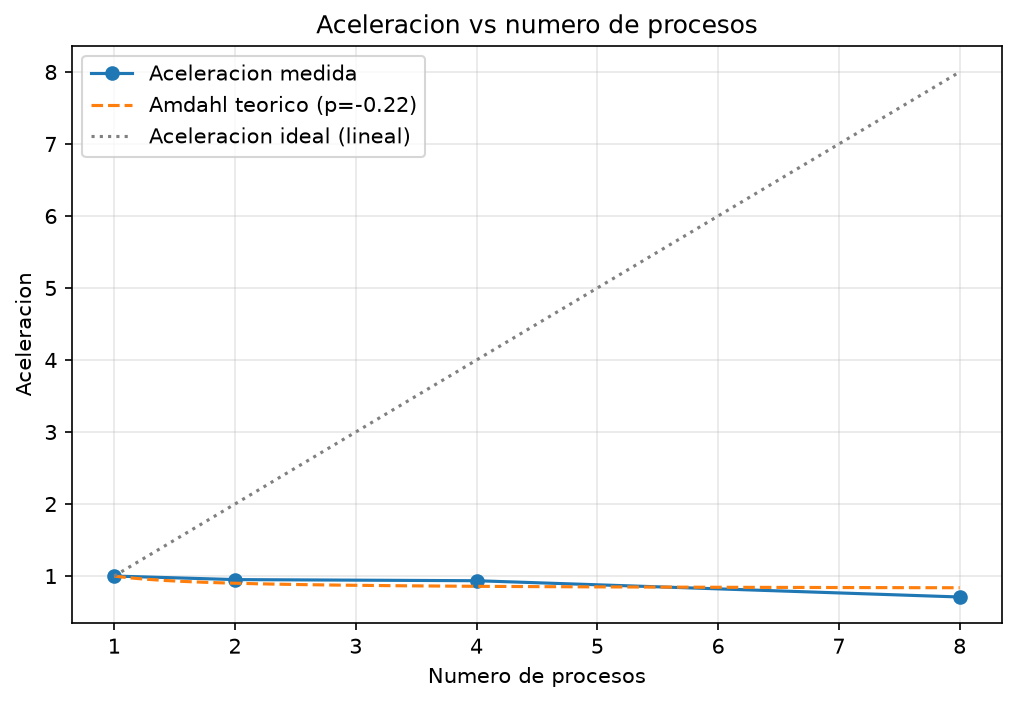
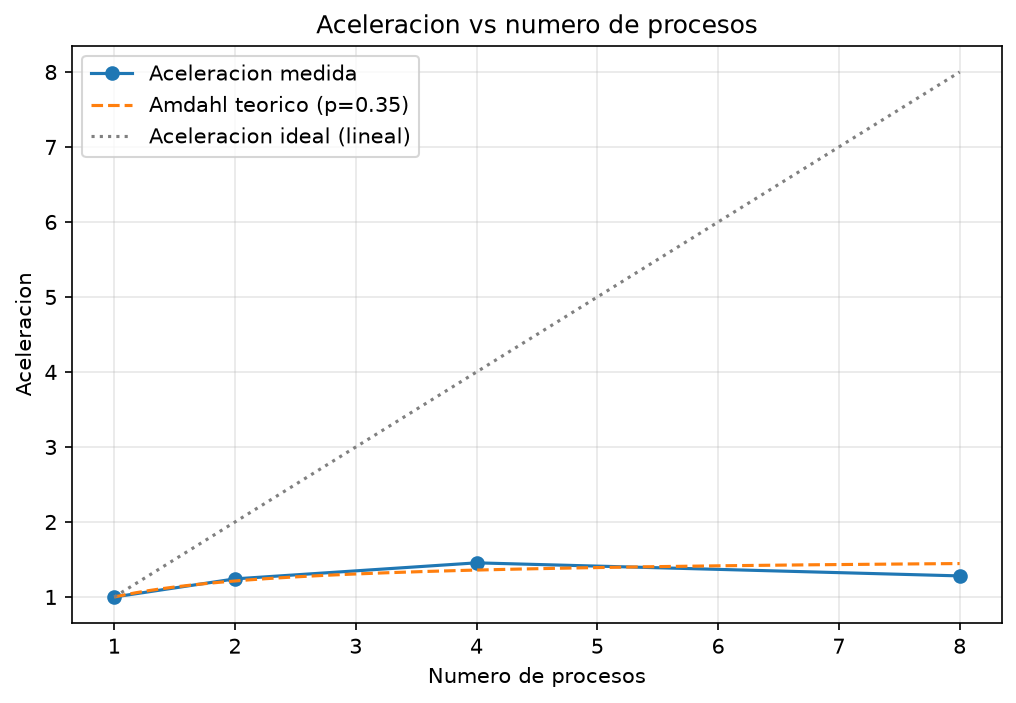
Métricas corregidas, ley de Amdahl aplicada y ajustes para el muestreo de data set (carpeta sample)

diff --git a/src/benchmark.py b/src/benchmark.py
@@ -1,41 +1,74 @@
+"""
+Automatiza las mediciones de rendimiento que pide el entregable:
+  - Corre la version secuencial y la paralela (con 1, 2, 4 y 8 procesos)
+  - Repite cada configuracion 3 veces (minimo pedido) para reducir el
+    efecto de variaciones aleatorias del sistema operativo
+  - Calcula aceleracion, eficiencia, y estima la fraccion secuencial
+    usando la Ley de Amdahl
+  - Genera las graficas de aceleracion y eficiencia en PNG
+"""
+
 from pathlib import Path
 import time
 import csv
 import numpy as np
+import pandas as pd
 import matplotlib.pyplot as plt
 
 from secuencial import procesar_secuencial
 from paralelo import procesar_paralelo
 
 BASE_DIR = Path(__file__).resolve().parent.parent
-RUTA_DATOS = BASE_DIR / "data" / "sample" / "muestra.csv"  # cambia a un archivo mas grande para la corrida final
+RUTA_DATOS = BASE_DIR / "data" / "sample" / "muestra_grande.csv"
 RUTA_TIEMPOS = BASE_DIR / "resultados" / "tiempos.csv"
 RUTA_GRAFICAS = BASE_DIR / "resultados" / "graficas"
+COLUMNAS_NECESARIAS = ["app_name", "review_score", "review_votes"]
 
+# Numeros de procesos a probar, y cuantas veces repetir cada uno
 NUM_PROCESOS = [1, 2, 4, 8]
 CORRIDAS = 3
 
 
 def medir_tiempo(funcion, *args):
+    """
+    Funcion auxiliar generica: ejecuta cualquier funcion pasandole los
+    argumentos dados, y regresa cuanto tiempo tardo (en segundos).
+    El *args permite reutilizar esta misma funcion tanto para
+    procesar_secuencial(df) como para procesar_paralelo(df, n).
+    """
     inicio = time.perf_counter()
     funcion(*args)
     return time.perf_counter() - inicio
 
 
 def correr_benchmark():
+    """
+    Ejecuta todas las mediciones (secuencial + cada nivel de paralelismo,
+    repetido CORRIDAS veces) y guarda cada tiempo individual en una lista
+    de diccionarios, que luego se exporta a CSV.
+    """
     RUTA_GRAFICAS.mkdir(parents=True, exist_ok=True)
     filas = []
 
+    # El CSV se carga UNA SOLA VEZ aqui, y se reutiliza el mismo
+    # DataFrame en todas las 15 mediciones (3 + 4x3). Si se leyera
+    # dentro de cada corrida, ese tiempo de I/O (identico sin importar
+    # el numero de procesos) inflaria artificialmente todas las
+    # mediciones por igual, ocultando el efecto real del paralelismo.
+    print("Cargando datos (una sola vez, fuera de las mediciones)...")
+    df = pd.read_csv(RUTA_DATOS, usecols=COLUMNAS_NECESARIAS)
+    print(f"Filas cargadas: {len(df)}")
+
     print("Corriendo version secuencial...")
     for corrida in range(1, CORRIDAS + 1):
-        t = medir_tiempo(procesar_secuencial, RUTA_DATOS)
+        t = medir_tiempo(procesar_secuencial, df)
         filas.append({"tipo": "secuencial", "n_procesos": 1, "corrida": corrida, "tiempo": t})
         print(f"  corrida {corrida}: {t:.4f}s")
 
     for n in NUM_PROCESOS:
         print(f"Corriendo version paralela con {n} proceso(s)...")
         for corrida in range(1, CORRIDAS + 1):
-            t = medir_tiempo(procesar_paralelo, RUTA_DATOS, n)
+            t = medir_tiempo(procesar_paralelo, df, n)
             filas.append({"tipo": "paralelo", "n_procesos": n, "corrida": corrida, "tiempo": t})
             print(f"  corrida {corrida}: {t:.4f}s")
 
@@ -44,6 +77,8 @@ def correr_benchmark():
 
 
 def guardar_csv(filas):
+    """Exporta todas las mediciones individuales (sin promediar) a CSV,
+    para que quede como evidencia cruda reproducible en el reporte."""
     with open(RUTA_TIEMPOS, "w", newline="", encoding="utf-8") as f:
         writer = csv.DictWriter(f, fieldnames=["tipo", "n_procesos", "corrida", "tiempo"])
         writer.writeheader()
@@ -52,6 +87,8 @@ def guardar_csv(filas):
 
 
 def promediar_por_n(filas, tipo="paralelo"):
+    """Calcula el tiempo promedio de las 3 corridas para cada numero
+    de procesos, filtrando solo las filas del 'tipo' indicado."""
     promedios = {}
     for n in NUM_PROCESOS:
         tiempos = [f["tiempo"] for f in filas if f["tipo"] == tipo and f["n_procesos"] == n]
@@ -60,10 +97,27 @@ def promediar_por_n(filas, tipo="paralelo"):
 
 
 def modelo_amdahl(n, p):
+    """
+    Formula de la Ley de Amdahl: dado un numero de procesos n y una
+    fraccion paralelizable p (entre 0 y 1), calcula la aceleracion
+    TEORICA maxima esperada.
+
+    (1 - p) es la fraccion secuencial: la parte del trabajo que NO
+    se beneficia de agregar mas procesos.
+    """
     return 1 / ((1 - p) + p / n)
 
 
 def estimar_fraccion_paralela(ns, aceleraciones):
+    """
+    Despeja algebraicamente el valor de p (fraccion paralelizable) de
+    la formula de Amdahl, usando cada punto medido (n, aceleracion)
+    donde n > 1 (con n=1 la formula no aporta informacion, ya que la
+    aceleracion siempre es 1.0 por definicion).
+
+    Se promedian las estimaciones de p obtenidas con cada n para dar
+    un resultado mas robusto que depender de un solo punto de datos.
+    """
     estimaciones = []
     for n, s in zip(ns, aceleraciones):
         if n == 1:
@@ -74,6 +128,14 @@ def estimar_fraccion_paralela(ns, aceleraciones):
 
 
 def analizar_resultados(filas):
+    """
+    A partir de las mediciones crudas, calcula:
+    - Aceleracion: T(1) / T(n), donde T(1) es el tiempo con 1 solo
+      proceso (nuestra linea base)
+    - Eficiencia: aceleracion / n (que tan bien se aprovecha cada
+      proceso agregado; 100% seria aprovechamiento perfecto)
+    - La fraccion secuencial estimada segun Amdahl
+    """
     promedios = promediar_por_n(filas, tipo="paralelo")
     t1 = promedios[1]
 
@@ -96,6 +158,12 @@ def analizar_resultados(filas):
 
 
 def graficar(ns, aceleraciones, eficiencias, p_estimado):
+    """Genera y guarda dos graficas PNG: aceleracion vs. numero de
+    procesos (comparando lo medido contra lo ideal y lo predicho por
+    Amdahl), y eficiencia vs. numero de procesos."""
+
+    # 200 puntos entre 1 y el maximo de procesos, para dibujar la curva
+    # teorica de Amdahl como una linea suave en vez de solo 4 puntos
     ns_finos = np.linspace(1, max(ns), 200)
     aceleracion_teorica = [modelo_amdahl(n, p_estimado) for n in ns_finos]
 

diff --git a/src/paralelo.py b/src/paralelo.py
@@ -1,3 +1,14 @@
+"""
+Version PARALELA del procesamiento, usando el patron maestro-trabajador
+con la libreria multiprocessing.
+
+Cada worker es un PROCESO independiente del sistema operativo (no un hilo),
+lo que significa que cada uno tiene su propia copia de memoria: el "maestro"
+(este script) tiene que enviarle a cada worker su porcion de datos (esto se
+hace automaticamente via pickle/serializacion), y luego recolectar y combinar
+los resultados parciales que cada worker regresa.
+"""
+
 from pathlib import Path
 from collections import defaultdict
 import multiprocessing as mp
@@ -7,11 +18,22 @@ import time
 import sys
 
 BASE_DIR = Path(__file__).resolve().parent.parent
-RUTA_MUESTRA = BASE_DIR / "data" / "sample" / "muestra.csv"
+RUTA_MUESTRA = BASE_DIR / "data" / "sample" / "muestra_grande.csv"
 RUTA_COMPLETA = BASE_DIR / "data" / "raw" / "dataset.csv"
+COLUMNAS_NECESARIAS = ["app_name", "review_score", "review_votes"]
 
 
 def procesar_bloque(bloque):
+    """
+    Funcion que ejecuta CADA WORKER de forma independiente sobre su
+    porcion del DataFrame (su "bloque"). La logica interna es identica
+    a procesar_secuencial(), la diferencia es que aqui solo se ve una
+    fraccion de los datos totales, no el DataFrame completo.
+
+    Esta funcion debe estar definida a nivel de modulo (no anidada
+    dentro de otra funcion) para que multiprocessing pueda "picklearla"
+    y enviarla a cada proceso worker.
+    """
     resultados = defaultdict(lambda: {"positivas": 0, "negativas": 0, "votos_utiles": 0})
 
     for fila in bloque.itertuples(index=False):
@@ -30,6 +52,16 @@ def procesar_bloque(bloque):
 
 
 def combinar_resultados(lista_resultados):
+    """
+    Este es el paso de REDUCCION: el proceso maestro recibe una lista
+    de diccionarios parciales (uno por cada worker) y los suma en un
+    solo diccionario final.
+
+    Es importante notar que esta suma es conmutativa y asociativa
+    (sumar en cualquier orden da el mismo resultado), lo cual es lo
+    que hace seguro combinar resultados de workers que terminaron en
+    momentos distintos y en cualquier orden.
+    """
     combinado = defaultdict(lambda: {"positivas": 0, "negativas": 0, "votos_utiles": 0})
 
     for parcial in lista_resultados:
@@ -42,16 +74,36 @@ def combinar_resultados(lista_resultados):
 
 
 def dividir_dataframe(df, n_partes):
-    # Divide los INDICES en n_partes y extrae cada bloque con iloc,
-    # asi cada pedazo sigue siendo un DataFrame real (no un ndarray)
+    """
+    Divide el DataFrame en n_partes bloques aproximadamente iguales.
+
+    IMPORTANTE: dividimos los INDICES (numeros de fila) con
+    np.array_split(), y luego extraemos cada bloque con .iloc[].
+    Si en vez de esto se hace np.array_split(df, n_partes) directamente
+    sobre el DataFrame, numpy puede convertir cada pedazo en un arreglo
+    plano (numpy.ndarray) en vez de mantenerlo como DataFrame, lo cual
+    rompe el uso de itertuples() dentro de procesar_bloque().
+    """
     indices = np.array_split(np.arange(len(df)), n_partes)
     return [df.iloc[idx] for idx in indices]
 
 
-def procesar_paralelo(ruta_csv, n_procesos):
-    df = pd.read_csv(ruta_csv)
-    bloques = dividir_dataframe(df, n_procesos)  # <- clave: usa esta funcion, no np.array_split(df, ...)
+def procesar_paralelo(df, n_procesos):
+    """
+    Orquesta el patron maestro-trabajador completo:
+      1. El maestro divide el DataFrame en n_procesos bloques (dividir_dataframe)
+      2. Crea un Pool de procesos y les asigna un bloque a cada uno (pool.map)
+      3. Cada worker procesa su bloque de forma independiente (procesar_bloque)
+      4. El maestro combina todos los resultados parciales (combinar_resultados)
 
+    pool.map() es BLOQUEANTE: espera a que todos los workers terminen
+    antes de continuar, lo cual es justo lo que queremos para medir el
+    tiempo total de la operacion paralela completa.
+    """
+    bloques = dividir_dataframe(df, n_procesos)
+
+    # El "with" asegura que el Pool cierre sus procesos correctamente
+    # al terminar, incluso si ocurre un error durante el procesamiento
     with mp.Pool(processes=n_procesos) as pool:
         resultados_parciales = pool.map(procesar_bloque, bloques)
 
@@ -59,11 +111,16 @@ def procesar_paralelo(ruta_csv, n_procesos):
 
 
 if __name__ == "__main__":
-    ruta = RUTA_MUESTRA
+    # Igual que en secuencial.py: la lectura del CSV queda fuera de la
+    # medicion de tiempo, para medir solo el costo del paralelismo en si
+    df = pd.read_csv(RUTA_MUESTRA, usecols=COLUMNAS_NECESARIAS)
+
+    # Permite indicar el numero de procesos como argumento de linea de
+    # comandos (por ejemplo: python paralelo.py 8), o usa 4 por defecto
     n_procesos = int(sys.argv[1]) if len(sys.argv) > 1 else 4
 
     inicio = time.perf_counter()
-    resultados = procesar_paralelo(ruta, n_procesos)
+    resultados = procesar_paralelo(df, n_procesos)
     fin = time.perf_counter()
 
     print(f"Procesos usados: {n_procesos}")

diff --git a/src/secuencial.py b/src/secuencial.py
@@ -1,33 +1,64 @@
-#versión sin paralelismo
-#se usará tanto para verificar resultados como para tu tiempo base (n=1):
+"""
+Version SECUENCIAL (sin paralelismo) del procesamiento del dataset Steam Reviews.
+Este script sirve dos propositos:
+1. Es la version de REFERENCIA para verificar que la version paralela
+   produce exactamente los mismos resultados (correctitud).
+2. Su tiempo de ejecucion es la base (T1) para calcular aceleracion
+   y eficiencia en el benchmark.
+
+Metrica calculada: por cada juego (app_name), cuenta cuantas resenas son
+positivas, cuantas negativas, y suma el total de votos utiles.
+"""
+
 from pathlib import Path
 from collections import defaultdict
 import pandas as pd
 import time
 
-# Rutas calculadas desde la ubicación del script, así no dependen
-# de cual sea el "working directory" configurado en PyCharm
+# BASE_DIR sube dos niveles desde este archivo (src/ -> raiz del proyecto)
+# Usar Path(__file__) en vez de rutas fijas evita errores si el proyecto
+# se mueve o se renombra la carpeta contenedora.
 BASE_DIR = Path(__file__).resolve().parent.parent
-RUTA_MUESTRA = BASE_DIR / "data" / "sample" / "muestra.csv"
+
+RUTA_MUESTRA = BASE_DIR / "data" / "sample" / "muestra_grande.csv"
 RUTA_COMPLETA = BASE_DIR / "data" / "raw" / "dataset.csv"
 
+# Solo necesitamos estas 3 columnas para el calculo. Cargar/mover columnas
+# de mas (como review_text, que puede ser texto largo) desperdicia memoria
+# y tiempo, sobre todo cuando se comparte entre procesos en paralelo.py.
+COLUMNAS_NECESARIAS = ["app_name", "review_score", "review_votes"]
 
-def procesar_secuencial(ruta_csv):
-    # Lee el CSV y cuenta reseñas positivas/negativas y votos útiles por juego.
-    # Devuelve: {app_name: {"positivas": int, "negativas": int, "votos_utiles": int}}
+
+def procesar_secuencial(df):
+    """
+    Recorre el DataFrame fila por fila y acumula conteos por juego.
+
+    Se usa un defaultdict con un diccionario por defecto (positivas=0,
+    negativas=0, votos_utiles=0) para no tener que checar manualmente
+    si el juego ya existe en el diccionario antes de sumarle algo.
+
+    itertuples(index=False) se elige sobre iterrows() porque es
+    significativamente mas rapido (itertuples genera namedtuples en vez
+    de Series de pandas, que tienen mucho mas overhead por fila).
+
+    A proposito NO se usa df.groupby() (que seria mucho mas rapido, ya
+    que esta implementado en C dentro de pandas), porque el objetivo del
+    proyecto es implementar Y MEDIR nuestra propia logica de paralelismo,
+    algo que no seria posible si dejamos que pandas resuelva todo
+    internamente de forma ya optimizada.
+    """
     resultados = defaultdict(lambda: {"positivas": 0, "negativas": 0, "votos_utiles": 0})
 
-    df = pd.read_csv(ruta_csv)
-
-    # Usamos itertuples() en vez de un groupby vectorizado a propósito:
-    # el objetivo del proyecto es que TU implementes la logica de paralelizacion,
-    # y un groupby de pandas ya resuelve todo internamente en C, dejando
-    # nada que paralelizar de forma significativa.
     for fila in df.itertuples(index=False):
         juego = fila.app_name
+
+        # Algunas filas pueden no tener nombre de juego (dato faltante);
+        # las saltamos para no ensuciar el diccionario de resultados
         if pd.isna(juego):
             continue
 
+        # En este dataset, review_score = 1 significa resena positiva,
+        # cualquier otro valor (tipicamente -1) se trata como negativa
         if fila.review_score == 1:
             resultados[juego]["positivas"] += 1
         else:
@@ -35,18 +66,28 @@ def procesar_secuencial(ruta_csv):
 
         resultados[juego]["votos_utiles"] += fila.review_votes
 
+    # Convertimos de defaultdict a dict normal antes de retornar, para
+    # evitar que el llamador cree entradas nuevas por accidente al
+    # consultar una clave que no existe
     return dict(resultados)
 
 
 if __name__ == "__main__":
-    ruta = RUTA_MUESTRA  # cambia a RUTA_COMPLETA cuando corras las mediciones finales
+    # La lectura del CSV se hace aqui, FUERA de la medicion de tiempo,
+    # porque el objetivo es medir el costo del PROCESAMIENTO, no del
+    # I/O de disco (que es igual sin importar si es secuencial o paralelo)
+    df = pd.read_csv(RUTA_MUESTRA, usecols=COLUMNAS_NECESARIAS)
 
+    # perf_counter() es mas preciso que time.time() para medir duraciones
+    # cortas, ya que no se ve afectado por ajustes del reloj del sistema
     inicio = time.perf_counter()
-    resultados = procesar_secuencial(ruta)
+    resultados = procesar_secuencial(df)
     fin = time.perf_counter()
 
     print(f"Tiempo secuencial: {fin - inicio:.4f} segundos")
     print(f"Juegos procesados: {len(resultados)}")
 
+    # Solo mostramos los primeros 5 como muestra, para no inundar la consola
+    # con potencialmente cientos de juegos distintos
     for juego, datos in list(resultados.items())[:5]:
         print(f"{juego}: {datos}")

diff --git a/main.py b/main.py
@@ -1,5 +1,5 @@
 import pandas as pd
 
-df_muestra = pd.read_csv("data/raw/dataset.csv", nrows=100000)
-df_muestra.to_csv("data/sample/muestra.csv", index=False)
-print(f"Muestra guardada: {len(df_muestra)} filas")
+df_grande = pd.read_csv("data/raw/dataset.csv", nrows=1500000)
+df_grande.to_csv("data/sample/muestra_grande.csv", index=False)
+print(f"Muestra guardada: {len(df_grande)} filas")
